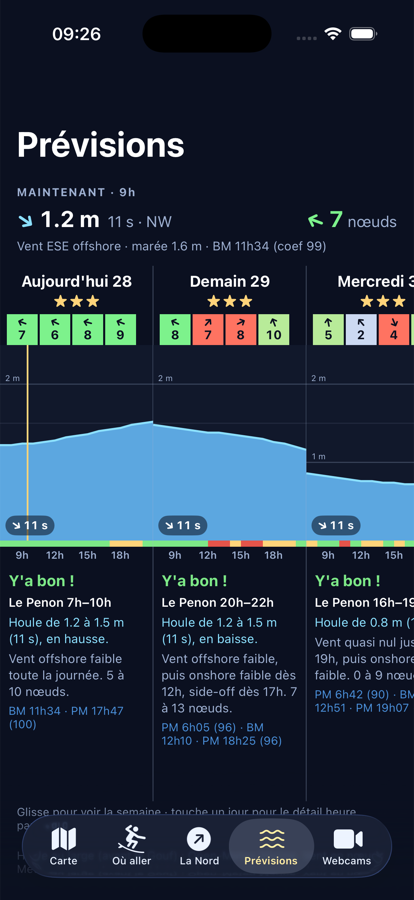
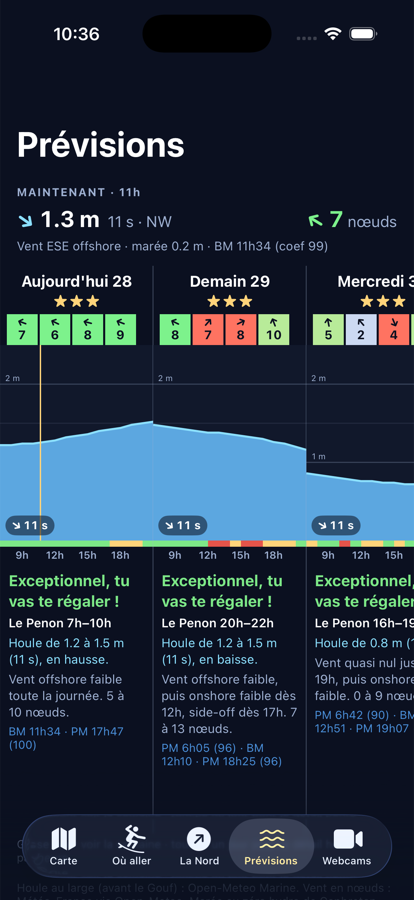
Prévisions : un commentaire par demi-étoile, du « reste au lit » à « Exceptionnel »

diff --git a/ios/BancsSurf/Models.swift b/ios/BancsSurf/Models.swift
@@ -336,14 +336,27 @@ enum QualiteVent {
 }
 
 /// Le jour en trois phrases, façon YaduSurf : on retient l'essentiel sans lire un seul chiffre de tableau.
-/// Seuils de verdict alignés sur `Color.note` (vert ≥ 7, jaune ≥ 4) ; le facteur limitant vient du pipeline.
+/// Le verdict suit les étoiles (même calcul), le facteur limitant vient du pipeline.
 enum Phrases {
+    /// 0 à 3 étoiles par demi-étoile, proportionnelles à la note /10 du meilleur spot.
+    static func etoiles(_ note: Double?) -> Double { ((note ?? 0) / 10 * 3 * 2).rounded() / 2 }
+
     static func verdict(_ c: Classement?) -> String {
         guard let c else { return "Pas de note" }
-        let mot = c.score >= 8.5 ? "Y'a bon !" : c.score >= 7 ? "Bonnes conditions" : c.score >= 4 ? "Surfable" : "Pas terrible"
-        // Sous 7, on dit pourquoi (« période courte »…), comme partout ailleurs dans l'app
-        guard c.score < 7, let e = c.explication, !e.hasPrefix("conditions dans") else { return mot }
-        return "\(mot) : \(e)"
+        switch etoiles(c.score) {
+        case 3: return "Exceptionnel, tu vas te régaler !"
+        case 2.5: return "Très bon, fonce !"
+        case 2: return "Bonnes conditions, ça vaut le coup"
+        case 1.5: return "Correct, de quoi se faire plaisir"
+        case 1: return "Petit surf, pas très propre"
+        case 0.5: return "Pas terrible, à éviter"
+        default: return "Pas de surf, reste au lit"
+        }
+    }
+    /// Sous 7, on dit pourquoi (« période courte »…), comme partout ailleurs dans l'app.
+    static func limite(_ c: Classement?) -> String? {
+        guard let c, c.score < 7, let e = c.explication, !e.hasPrefix("conditions dans") else { return nil }
+        return e.prefix(1).uppercased() + e.dropFirst()
     }
 
     /// « Houle longue de 1.2 à 1.5 m, en hausse. » sur les heures surfables (7h–20h).

diff --git a/ios/BancsSurf/Views/Surfometre.swift b/ios/BancsSurf/Views/Surfometre.swift
@@ -59,6 +59,9 @@ struct ColonneJour: View {
             VStack(alignment: .leading, spacing: 5) {
                 Text(Phrases.verdict(best)).font(.subheadline.weight(.bold))
                     .foregroundStyle(best.map { Color.note($0.score) } ?? Color.sourdine)
+                if let l = Phrases.limite(best) {
+                    Text(l).font(.caption.weight(.semibold)).foregroundStyle(best.map { Color.note($0.score) } ?? Color.sourdine)
+                }
                 if let b = best {
                     Text("\(b.nom) \(b.creneau.replacingOccurrences(of: "(^|–)0", with: "$1", options: .regularExpression))")
                         .font(.caption.weight(.semibold))
@@ -185,11 +188,11 @@ struct ColonneJour: View {
     }
 }
 
-/// 0 à 3 étoiles, proportionnelles à la note /10 du meilleur spot (demi-étoiles).
+/// 0 à 3 étoiles (demi-étoiles), calculées comme le verdict : `Phrases.etoiles`.
 struct Etoiles: View {
     let note: Double?
     var body: some View {
-        let e = ((note ?? 0) / 10 * 3 * 2).rounded() / 2
+        let e = Phrases.etoiles(note)
         HStack(spacing: 1) {
             ForEach(0..<3, id: \.self) { k in
                 let v = e - Double(k)

diff --git a/README.md b/README.md
@@ -255,8 +255,8 @@ SwiftUI + MapKit + Swift Charts, iOS 17+. Elle consomme les JSON du pipeline (`s
   15h et 18h en **cases colorées** par sa qualité (vert offshore → rouge onshore, en nœuds), la houle
   de 7h à 21h en aplat sur l'échelle de la semaine (plus sombre = période plus longue, bulle période
   + direction), une bande de couleur = note du meilleur spot heure par heure, puis **trois phrases**
-  (`Phrases` dans `Models.swift`) : verdict + meilleur spot et créneau (« Y'a bon ! », facteur
-  limitant sous 7), houle (« Houle longue de 1.2 à 1.5 m (14 s), en hausse. »), vent (« Vent offshore
+  (`Phrases` dans `Models.swift`) : verdict calé sur les étoiles (de « Pas de surf, reste au lit »
+  à « Exceptionnel, tu vas te régaler ! », facteur limitant en dessous sous 7) + meilleur spot et créneau, houle (« Houle longue de 1.2 à 1.5 m (14 s), en hausse. »), vent (« Vent offshore
   jusqu'à 12h, puis onshore faible. », faible = sous `onshore_tue_kmh`), et les PM/BM du jour.
   Toucher un jour ouvre son détail : moments matin → soir et heure par heure),
   **Webcams / Spots / Scènes** (segmenté), et ⚙ Réglages
